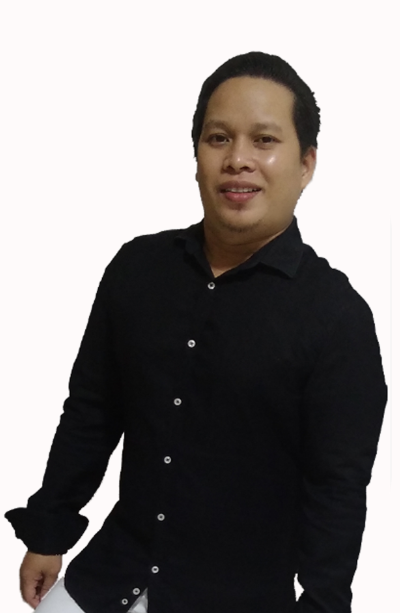
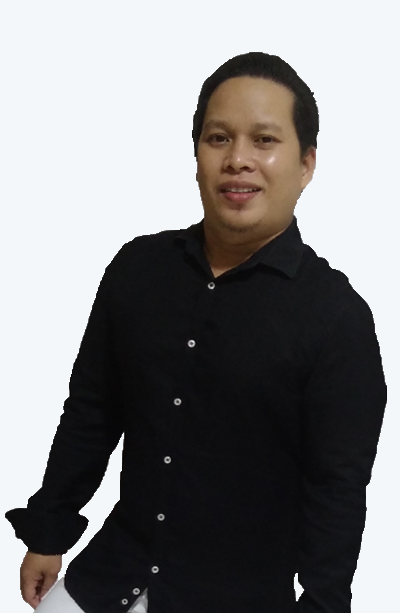
Updated landingpage done

Changed region(s): [[0.78, 0.155, 0.81, 0.217], [0.72, 0.9299, 0.75, 0.9608], [0.15, 0.8989, 0.18, 0.9299]]

diff --git a/src/app/page.tsx b/src/app/page.tsx
@@ -118,7 +118,7 @@ export default function Home() {
               Data-Driven Marketing That Outperforms Competitors
             </h2>
             <p className="text-sm sm:text-base text-slate-600 leading-relaxed">
-              Our strategies cover every phase of your customer acquisition funnel. We focus heavily on creative testing, audience targeting optimization, and maximum automation so you can focus on building your brand.
+              We help individuals discover opportunities to benefit from established businesses while helping business owners grow through digital marketing, social media advertising, content creation, AI-powered automation, and innovative technology solutions designed to increase sales, reach more customers, and build sustainable growth.
             </p>
             <div className="grid grid-cols-2 gap-4">
               <div className="p-4 rounded-xl bg-white border border-slate-200">
@@ -126,14 +126,14 @@ export default function Home() {
                 <p className="text-xs text-slate-500 font-medium">Average Facebook Ad ROAS</p>
               </div>
               <div className="p-4 rounded-xl bg-white border border-slate-200">
-                <p className="text-2xl sm:text-3xl font-extrabold text-emerald-600">$12M+</p>
+                <p className="text-2xl sm:text-3xl font-extrabold text-emerald-600">₱12M+</p>
                 <p className="text-xs text-slate-500 font-medium">Client Revenue Generated</p>
               </div>
             </div>
           </div>
 
           {/* Main Visual Image (image.png) */}
-          <div className="relative rounded-2xl overflow-hidden border border-slate-200 shadow-xl bg-white flex items-center justify-center p-2">
+          <div className="relative rounded-2xl overflow-hidden border border-slate-200 shadow-xl bg-fefafa flex items-center justify-center p-2">
             <img
               src={config.imageUrl}
               alt="E-commerce Analytics and Scaling Visual"

diff --git a/src/app/components/ClientForm.tsx b/src/app/components/ClientForm.tsx
@@ -95,7 +95,7 @@ export default function ClientForm({ config }: ClientFormProps) {
           type="text"
           value={fullName}
           onChange={(e) => setFullName(e.target.value)}
-          placeholder="E.g. John Doe"
+          placeholder="Juan Dela Cruz"
           required
           className="w-full bg-slate-50 border border-slate-200 rounded-xl px-4 py-3 text-sm text-slate-950 placeholder-slate-400 focus:outline-none focus:ring-2 focus:ring-blue-500/50 focus:border-blue-500/50 transition-all"
         />
@@ -111,7 +111,7 @@ export default function ClientForm({ config }: ClientFormProps) {
           type="tel"
           value={mobileNumber}
           onChange={(e) => setMobileNumber(e.target.value)}
-          placeholder="E.g. +1 (555) 019-2834"
+          placeholder="09987654321"
           required
           className="w-full bg-slate-50 border border-slate-200 rounded-xl px-4 py-3 text-sm text-slate-950 placeholder-slate-400 focus:outline-none focus:ring-2 focus:ring-blue-500/50 focus:border-blue-500/50 transition-all"
         />
@@ -127,7 +127,7 @@ export default function ClientForm({ config }: ClientFormProps) {
           type="text"
           value={jobBusiness}
           onChange={(e) => setJobBusiness(e.target.value)}
-          placeholder="E.g. Dropshipping Store Owner / Marketing Director"
+          placeholder="Store Owner, Clerk, Supervisor etc"
           required
           className="w-full bg-slate-50 border border-slate-200 rounded-xl px-4 py-3 text-sm text-slate-950 placeholder-slate-400 focus:outline-none focus:ring-2 focus:ring-blue-500/50 focus:border-blue-500/50 transition-all"
         />

diff --git a/src/config/landing.ts b/src/config/landing.ts
@@ -18,7 +18,7 @@ export const defaultLandingConfig: DomainConfig = {
   domain: "default",
   logoUrl: "/assets/images/logo.png",
   imageUrl: "/assets/images/image.png",
-  headline: "Scale Your E-commerce & Dropshipping Business To The Next Level",
+  headline: "Scale Your Revenue and learn how Dropshipping help your Business Grow",
   tagline: "Expert Facebook Ads & Digital Marketing strategies custom-built to maximize your ROAS, scale operations, and dominate the digital marketplace.",
   ctaText: "Get Free Marketing Strategy Consultation",
   emailRecipient: "darlumampao@gmail.com",
@@ -29,7 +29,7 @@ export const defaultLandingConfig: DomainConfig = {
   },
   features: [
     "High-converting landing pages built for scale",
-    "ROI-focused Facebook & TikTok ad campaigns",
+    "ROI-focused Facebook Ad & Digital Marketing",
     "Data-backed product sourcing & dropshipping operations",
     "Omnichannel digital marketing & brand strategy"
   ]
